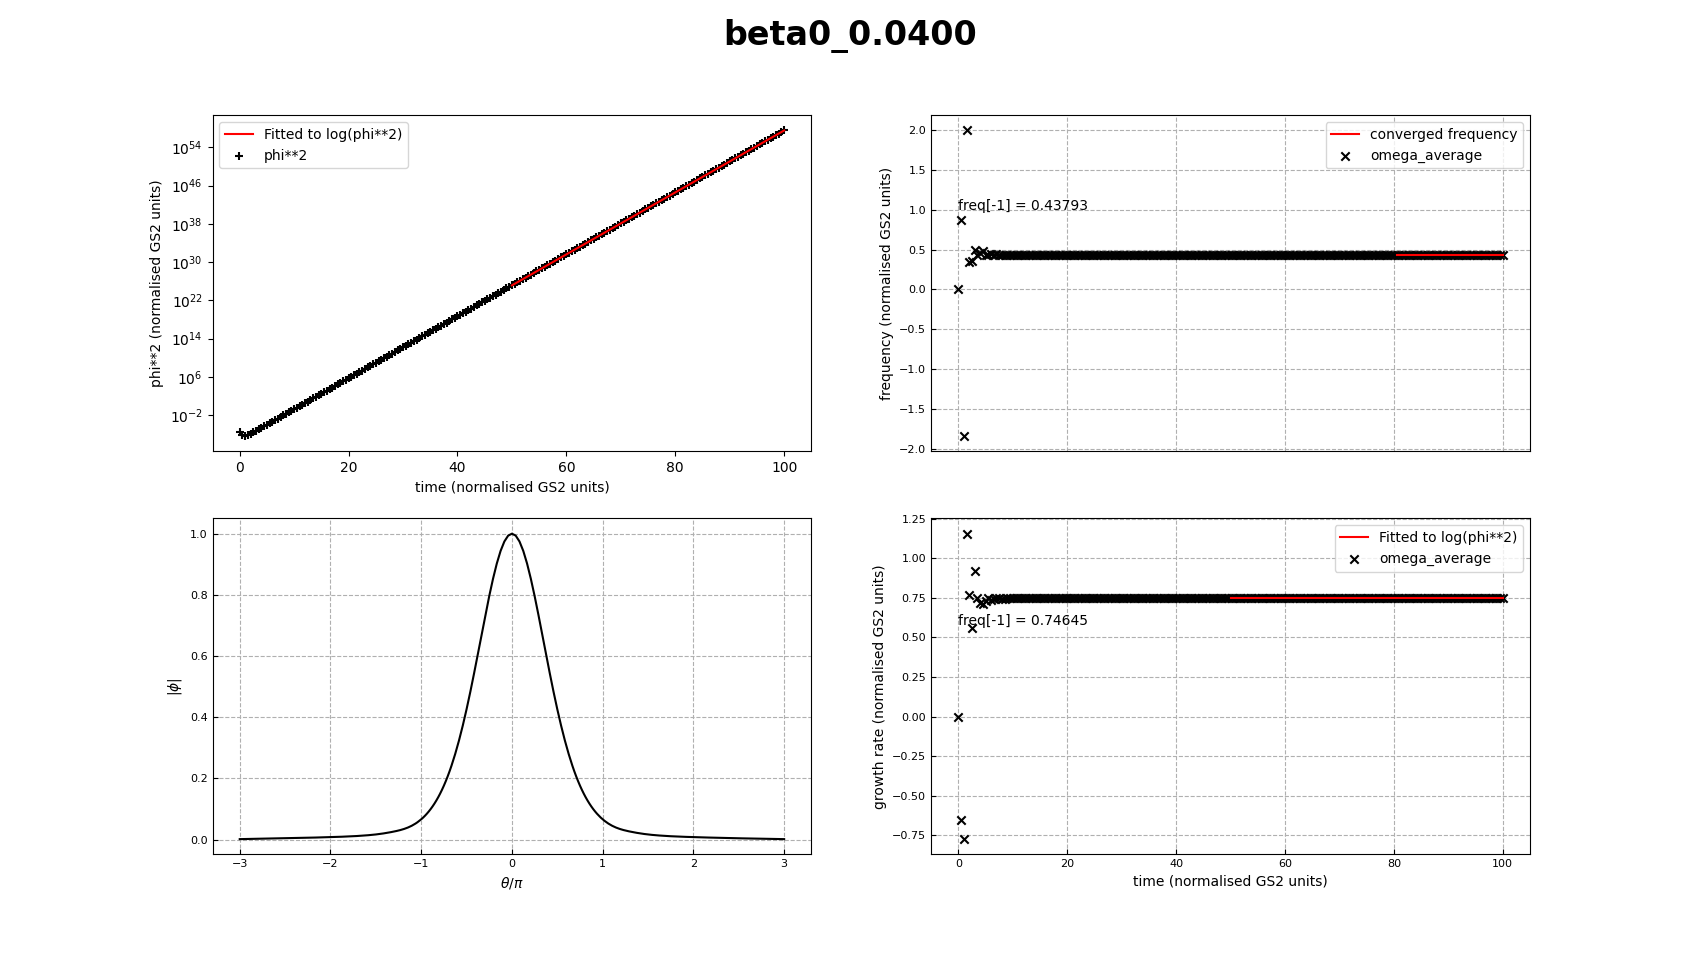
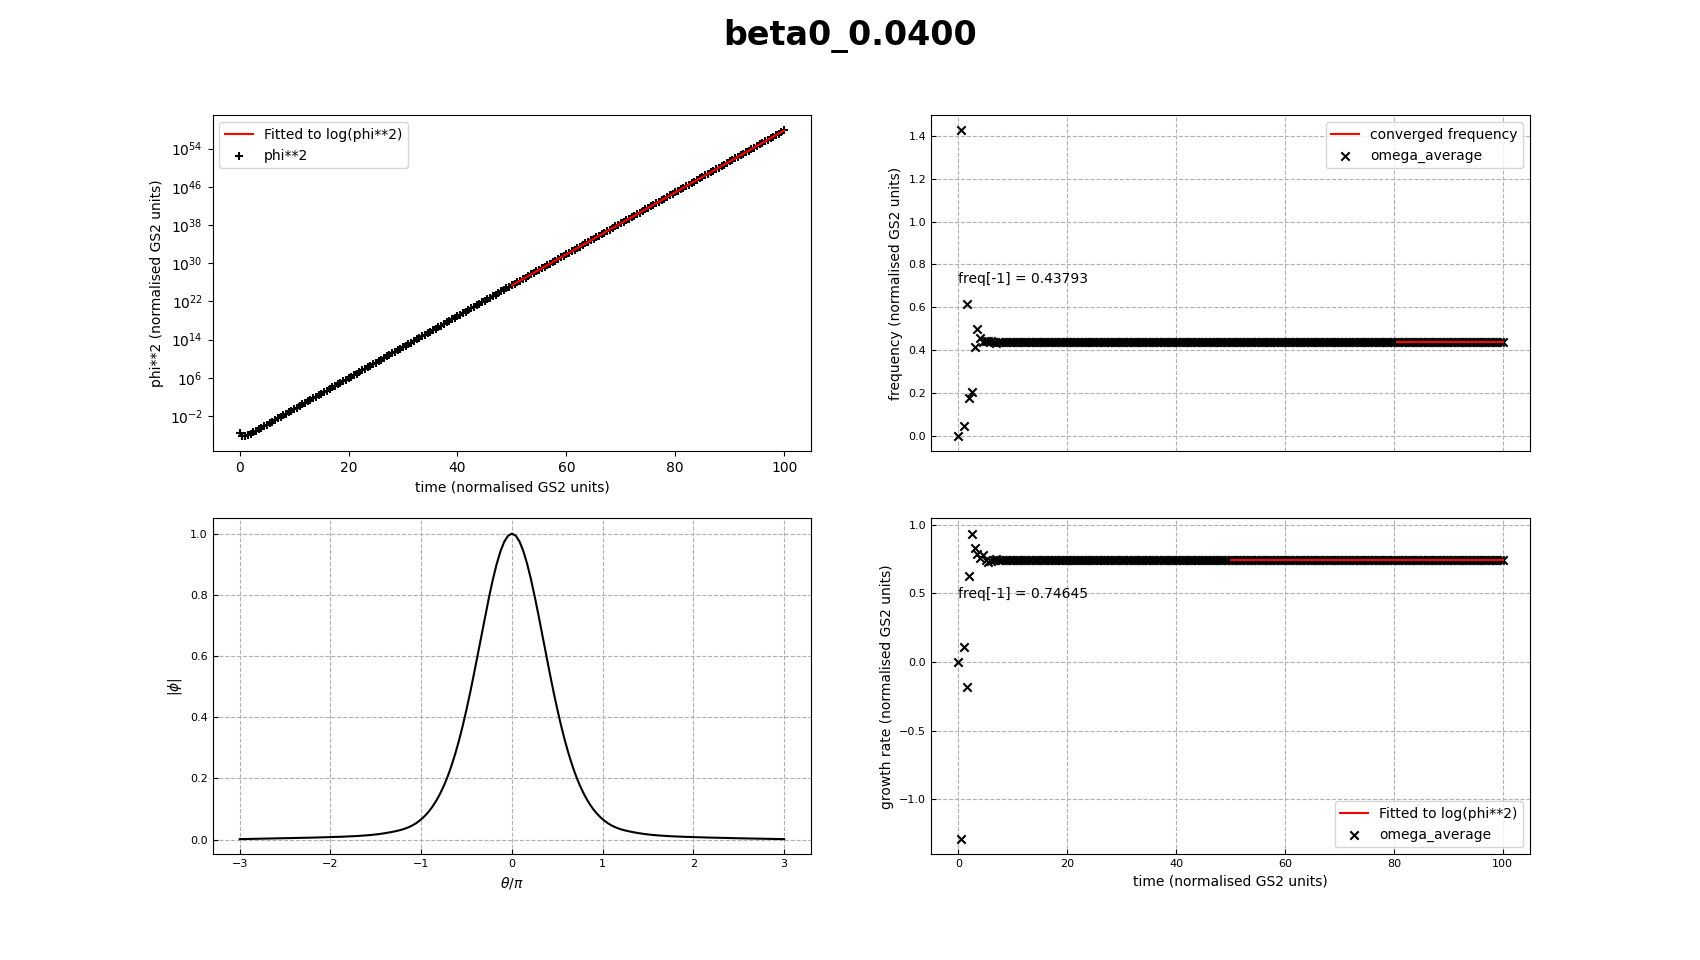
Added fiddling with plotting and sims

diff --git a/test_cbc_beta_scan/postprocess_beta_scans.py b/test_cbc_beta_scan/postprocess_beta_scans.py
@@ -234,33 +234,45 @@ def make_plot_for_single_sim(sim_longname, sim_type):
                         save_path=(folder_longname + "/"),
                         plot_growth_rates=True,
                         figtitle=sim_shortname)
-        fig = plt.figure(figsize=(12,8))
-        ax1 = fig.add_subplot(311)
-        ax2 = fig.add_subplot(312, sharex=ax1)
-        ax3 = fig.add_subplot(313, sharex=ax1)
-        plot_phi_z_for_sim(ax1, sim_longname, "GS2", sim_type="gs2")
-        plot_apar_z_for_sim(ax2, sim_longname, "GS2", sim_type="gs2")
-        plot_bpar_z_for_sim(ax3, sim_longname, "GS2", sim_type="gs2")
-        ax1.set_ylabel(r"$\vert \phi \vert$")
-        ax2.set_ylabel(r"$\vert A_\parallel \vert$")
-        ax3.set_ylabel(r"$\vert B_\parallel \vert$")
-        ax3.set_xlabel(r"$z/\pi$")
-        for ax in [ax1, ax2, ax3]:
-            ax.grid(True)
-        plt.tight_layout()
-        save_name = sim_longname + "_fields_z.png"
-        plt.savefig(save_name)
-        plt.close()
+        # fig = plt.figure(figsize=(12,8))
+        # ax1 = fig.add_subplot(311)
+        # ax2 = fig.add_subplot(312, sharex=ax1)
+        # ax3 = fig.add_subplot(313, sharex=ax1)
+        z, real_phi, imag_phi = get_phiz_data(sim_longname, "gs2")
+        abs_phi = help_lin.get_abs(real_phi, imag_phi)
+        try:
+            z, real_apar, imag_apar = get_aparz_data(sim_longname, "gs2")
+            abs_apar = help_lin.get_abs(real_apar, imag_apar)
+        except None:
+            print("None")
+        try:
+            z, real_bpar, imag_bpar = get_bparz_data(sim_longname, "gs2")
+            abs_bpar = help_lin.get_abs(real_bpar, imag_bpar)
+        except None:
+            print("None")
+
+        make_field_z_plot_for_stella(sim_longname, z, abs_phi, abs_apar, abs_bpar)
+
+        # ax1.set_ylabel(r"$\vert \phi \vert$")
+        # ax2.set_ylabel(r"$\vert A_\parallel \vert$")
+        # ax3.set_ylabel(r"$\vert B_\parallel \vert$")
+        # ax3.set_xlabel(r"$z/\pi$")
+        # for ax in [ax1, ax2, ax3]:
+        #     ax.grid(True)
+        # plt.tight_layout()
+        # save_name = sim_longname + "_fields_z.png"
+        # plt.savefig(save_name)
+        # plt.close()
 
     return
 
 if __name__ == "__main__":
     # postprocess_folder("gs2_beta_scan_ky_05_np4_nt64_ng12_ne24_fapar1_fbpar1", "gs2")
     # postprocess_folder("gs2_beta_scan_ky_05_np3_nt48_ng8_ne18_fapar1_fbpar1", "gs2")
-    postprocess_folder("stella_beta_scan_ky_05_np4_nt64_nvpa36_nmu24_fapar1_fbpar1", "stella")
-    postprocess_folder("stella_beta_scan_ky_05_np2_nt64_nvpa24_nmu18_fapar1_fbpar1", "stella")
-    postprocess_folder("stella_beta_scan_ky_05_np2_nt64_nvpa18_nmu12_fapar1_fbpar1", "stella")
-    postprocess_folder("stella_beta_scan_ky_05_np2_nt32_nvpa18_nmu12_fapar1_fbpar1", "stella")
+    # postprocess_folder("stella_beta_scan_ky_05_np4_nt64_nvpa36_nmu24_fapar1_fbpar1", "stella")
+    # postprocess_folder("stella_beta_scan_ky_05_np2_nt64_nvpa24_nmu18_fapar1_fbpar1", "stella")
+    # postprocess_folder("stella_beta_scan_ky_05_np2_nt64_nvpa18_nmu12_fapar1_fbpar1", "stella")
+    # postprocess_folder("stella_beta_scan_ky_05_np2_nt32_nvpa18_nmu12_fapar1_fbpar1", "stella")
     # compare_em_old = "old_em_stella_comparison/electromagnetic/"
     # postprocess_folder(compare_em_old + "stella_beta_scan_ky_05_np2_nt128_nvpa18_nmu12_fapar1_fbpar1_2", "stella")
     # postprocess_folder(compare_em_old + "stella_beta_scan_ky_05_np2_nt256_nvpa18_nmu12_fapar1_fbpar1_2", "stella")
@@ -274,21 +286,21 @@ if __name__ == "__main__":
     # postprocess_folder(compare_em_new_impl_str + "stella_beta_scan_ky_05_np2_nt256_nvpa18_nmu12_fapar1_fbpar1_2", "stella")
     # postprocess_folder(compare_em_new_impl_str + "stella_beta_scan_ky_05_np2_nt512_nvpa18_nmu12_fapar1_fbpar1_2", "stella")
     #
-    postprocess_folder("stella_beta_scan_ky_05_np2_nt32_nvpa18_nmu12_fapar1_fbpar1_streaming_implicit", "stella")
-    postprocess_folder("stella_beta_scan_ky_05_np2_nt64_nvpa18_nmu12_fapar1_fbpar1_streaming_implicit", "stella")
-    postprocess_folder("stella_beta_scan_ky_05_np2_nt64_nvpa24_nmu18_fapar1_fbpar1_streaming_implicit", "stella")
-    postprocess_folder("stella_beta_scan_ky_05_np4_nt64_nvpa36_nmu24_fapar1_fbpar1_streaming_implicit", "stella")
-    gfort_compare_em_new = "viking_gfortran_build/old_em_stella_comparison/electromagnetic-new/"
-    postprocess_folder(gfort_compare_em_new + "stella_beta_scan_ky_05_np2_nt128_nvpa18_nmu12_fapar1_fbpar1_2", "stella")
-    gfort_compare_em_new_impl_str = "viking_gfortran_build/old_em_stella_comparison/electromagnetic-new_stream_implicit/"
-    postprocess_folder(gfort_compare_em_new_impl_str + "stella_beta_scan_ky_05_np2_nt128_nvpa18_nmu12_fapar1_fbpar1_2", "stella")
-    postprocess_folder(gfort_compare_em_new_impl_str + "stella_beta_scan_ky_05_np2_nt256_nvpa18_nmu12_fapar1_fbpar1_2", "stella")
-    postprocess_folder(gfort_compare_em_new_impl_str + "stella_beta_scan_ky_05_np2_nt512_nvpa18_nmu12_fapar1_fbpar1_2", "stella")
-    gfort_build = "viking_gfortran_build/"
-    postprocess_folder(gfort_build + "stella_beta_scan_ky_05_np2_nt32_nvpa18_nmu12_fapar1_fbpar1_streaming_implicit", "stella")
-    postprocess_folder(gfort_build + "stella_beta_scan_ky_05_np2_nt64_nvpa18_nmu12_fapar1_fbpar1_streaming_implicit", "stella")
-    make_plot_for_single_sim("sims/viking_gfortran_build/stella_beta_scan_ky_05_np2_nt64_nvpa18_nmu12_fapar1_fbpar1_streaming_implicit/" +
-                             "beta_0.04000_investigation", "stella")
-    # make_plot_for_single_sim("sims/gs2_beta_scan_ky_05_np2_nt64_ng8_ne18_fapar1_fbpar1/beta0_0.0400", "gs2")
+    # postprocess_folder("stella_beta_scan_ky_05_np2_nt32_nvpa18_nmu12_fapar1_fbpar1_streaming_implicit", "stella")
+    # postprocess_folder("stella_beta_scan_ky_05_np2_nt64_nvpa18_nmu12_fapar1_fbpar1_streaming_implicit", "stella")
+    # postprocess_folder("stella_beta_scan_ky_05_np2_nt64_nvpa24_nmu18_fapar1_fbpar1_streaming_implicit", "stella")
+    # postprocess_folder("stella_beta_scan_ky_05_np4_nt64_nvpa36_nmu24_fapar1_fbpar1_streaming_implicit", "stella")
+    # gfort_compare_em_new = "viking_gfortran_build/old_em_stella_comparison/electromagnetic-new/"
+    # postprocess_folder(gfort_compare_em_new + "stella_beta_scan_ky_05_np2_nt128_nvpa18_nmu12_fapar1_fbpar1_2", "stella")
+    # gfort_compare_em_new_impl_str = "viking_gfortran_build/old_em_stella_comparison/electromagnetic-new_stream_implicit/"
+    # postprocess_folder(gfort_compare_em_new_impl_str + "stella_beta_scan_ky_05_np2_nt128_nvpa18_nmu12_fapar1_fbpar1_2", "stella")
+    # postprocess_folder(gfort_compare_em_new_impl_str + "stella_beta_scan_ky_05_np2_nt256_nvpa18_nmu12_fapar1_fbpar1_2", "stella")
+    # postprocess_folder(gfort_compare_em_new_impl_str + "stella_beta_scan_ky_05_np2_nt512_nvpa18_nmu12_fapar1_fbpar1_2", "stella")
+    # gfort_build = "viking_gfortran_build/"
+    # postprocess_folder(gfort_build + "stella_beta_scan_ky_05_np2_nt32_nvpa18_nmu12_fapar1_fbpar1_streaming_implicit", "stella")
+    # postprocess_folder(gfort_build + "stella_beta_scan_ky_05_np2_nt64_nvpa18_nmu12_fapar1_fbpar1_streaming_implicit", "stella")
+    # make_plot_for_single_sim("sims/viking_gfortran_build/stella_beta_scan_ky_05_np2_nt64_nvpa18_nmu12_fapar1_fbpar1_streaming_implicit/" +
+    #                          "beta_0.04000_investigation", "stella")
+    make_plot_for_single_sim("sims/gs2_beta_scan_ky_05_np2_nt64_ng8_ne18_fapar1_fbpar1/beta0_0.0400", "gs2")
     # postprocess_folder(gfort_build + "stella_beta_scan_ky_05_np2_nt64_nvpa24_nmu18_fapar1_fbpar1_streaming_implicit", "stella")
     # postprocess_folder(gfort_build + "stella_beta_scan_ky_05_np4_nt64_nvpa36_nmu24_fapar1_fbpar1_streaming_implicit", "stella")

diff --git a/test_cbc_beta_scan/make_plots_for_beta_scans.py b/test_cbc_beta_scan/make_plots_for_beta_scans.py
@@ -298,6 +298,33 @@ def plot_beta_scans_with_resolution_checks():
                 marker_size=8,
                 omega_diff=True
                 )
+    ### Benchmark stella with implicit streaming
+    make_beta_plots_from_pickles(
+                [
+                "sims/" + gs2_beta_scan_ky_05_np4_nt64_ng12_ne24_fapar1_fbpar1_folder + "/beta_gamma_omega.pickle",
+                "sims/" + gs2_beta_scan_ky_05_np3_nt48_ng8_ne18_fapar1_fbpar1_folder + "/beta_gamma_omega.pickle",
+                "sims/" + stella_beta_scan_ky_05_np4_nt64_nvpa36_nmu24_fapar1_fbpar1_folder + "/beta_gamma_omega.pickle",
+                "sims/" + stella_beta_scan_ky_05_np2_nt64_nvpa24_nmu18_fapar1_fbpar1_folder + "/beta_gamma_omega.pickle",
+                "sims/" + stella_beta_scan_ky_05_np2_nt64_nvpa18_nmu12_fapar1_fbpar1_folder + "/beta_gamma_omega.pickle",
+                "sims/" + stella_beta_scan_ky_05_np2_nt32_nvpa18_nmu12_fapar1_fbpar1_folder + "/beta_gamma_omega.pickle",
+                "sims/viking_gfortran_build/" + stella_beta_scan_ky_05_np2_nt64_nvpa24_nmu18_fapar1_fbpar1_streaming_implicit_folder + "/beta_gamma_omega.pickle",
+                "sims/viking_gfortran_build/" + stella_beta_scan_ky_05_np2_nt64_nvpa18_nmu12_fapar1_fbpar1_streaming_implicit_folder + "/beta_gamma_omega.pickle",
+                "sims/viking_gfortran_build/" + stella_beta_scan_ky_05_np2_nt32_nvpa18_nmu12_fapar1_fbpar1_streaming_implicit_folder + "/beta_gamma_omega.pickle",
+                ],
+                [
+                "GS2, hr",
+                "GS2, lr",
+                "stella, hr",
+                "stella, lr + nt64",
+                "stella, vlr + nt64",
+                "stella, vlr + nt32",
+                "stella, lr (str. impl.) + nt64",
+                "stella, vlr (str. impl.) + nt64",
+                "stella, vlr (str. impl.) + nt32",
+                ],
+                marker_size=8,
+                omega_diff=True
+                )
 
     # make_beta_plots_from_pickles(
     #             [

diff --git a/postprocessing_tools/helper_linear_sims.py b/postprocessing_tools/helper_linear_sims.py
@@ -685,7 +685,7 @@ def get_abs(re_part, im_part):
 
     # There's a risk that the real and imaginary
     # components separately are finite, but the abs(value) is not.
-    scaling_val = max(re_part)
+    scaling_val = np.max(abs(re_part))
     re_part = re_part/scaling_val; im_part = im_part/scaling_val
     abs_val = np.sqrt(re_part**2 + im_part**2)
     return abs_val * scaling_val
